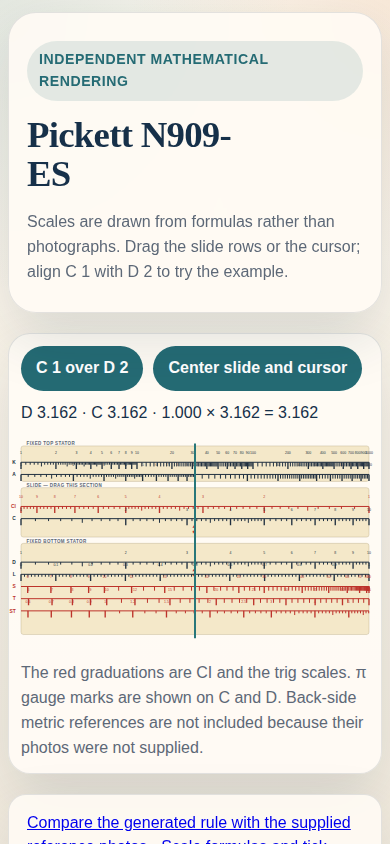
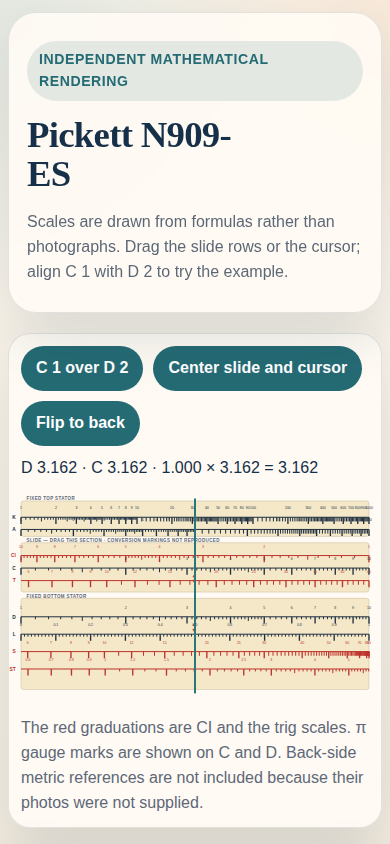
Correct slide scale placement and drag hit area

Changed region(s): [[0.0, 0.4621, 0.9846, 1.0], [0.4, 0.4621, 0.8308, 0.4929]]

diff --git a/rule-v2.html b/rule-v2.html
@@ -39,6 +39,7 @@
       <div class="toolbar">
         <button type="button" id="example">C 1 over D 2</button>
         <button type="button" id="center">Center slide and cursor</button>
+        <button type="button" id="flip">Flip to back</button>
         <output id="reading" aria-live="polite"></output>
       </div>
       <svg class="rule-svg" id="rule" viewBox="0 0 1000 590" role="img" aria-label="Front-side slide rule with logarithmic and trigonometric scales">
@@ -46,13 +47,17 @@
         <rect class="rail" x="0" y="137" width="1000" height="142" rx="7"/>
         <rect class="rail" x="0" y="297" width="1000" height="262" rx="7"/>
         <text class="section-name" x="16" y="15">FIXED TOP STATOR</text>
-        <text class="section-name" x="16" y="135">SLIDE — DRAG THIS SECTION</text>
+        <text class="section-name" x="16" y="135">SLIDE — DRAG THIS SECTION · CONVERSION MARKINGS NOT REPRODUCED</text>
         <text class="section-name" x="16" y="295">FIXED BOTTOM STATOR</text>
         <g id="fixed-top"></g>
         <g id="slide-layer"></g>
         <g id="fixed-bottom"></g>
         <line id="cursor-line" class="cursor-line" x1="500" y1="10" x2="500" y2="570"/>
         <rect id="cursor-hit" class="cursor-hit" x="490" y="8" width="20" height="564"/>
+        <g id="back-message" visibility="hidden">
+          <text x="500" y="275" text-anchor="middle" class="scale-name">Back-side reference photos are not available.</text>
+          <text x="500" y="305" text-anchor="middle" class="section-name">No back scales or conversion markings are guessed.</text>
+        </g>
       </svg>
       <p class="instructions">The red graduations are CI and the trig scales. π gauge marks are shown on C and D. Back-side metric references are not included because their photos were not supplied.</p>
     </section>
@@ -66,12 +71,17 @@
       const slide = document.getElementById('slide-layer');
       const cursorLine = document.getElementById('cursor-line');
       const cursorHit = document.getElementById('cursor-hit');
+      const backMessage = document.getElementById('back-message');
       const output = document.getElementById('reading');
-      const rows = { top: [64, 99], slide: [191, 226], bottom: [351, 386, 421, 456, 491] };
+      const rows = { top: [64, 99], slide: [174, 210, 246], bottom: [350, 400, 450, 500] };
+      let isBack = false;
       for (const section of ['top', 'slide', 'bottom']) {
         const group = section === 'slide' ? slide : document.getElementById(`fixed-${section}`);
         const scales = PickettScales.definitions.filter((scale) => scale.section === section);
-        group.innerHTML = scales.map((scale, index) => PickettScales.renderScale(scale, rows[section][index], width)).join('');
+        const slideHitArea = section === 'slide'
+          ? '<rect x="-1000" y="137" width="3000" height="142" fill="transparent" pointer-events="all"/>'
+          : '';
+        group.innerHTML = slideHitArea + scales.map((scale, index) => PickettScales.renderScale(scale, rows[section][index], width)).join('');
       }
 
       let offset = 0;
@@ -83,6 +93,10 @@
         cursorLine.setAttribute('x1', cursor);
         cursorLine.setAttribute('x2', cursor);
         cursorHit.setAttribute('x', cursor - 10);
+        if (isBack) {
+          output.textContent = 'Back-side markings are unavailable in the supplied references.';
+          return;
+        }
         const d = PickettScales.readScaleAt('D', cursor / width);
         const c = PickettScales.readScaleAt('C', cursor / width, offset / width);
         const base = PickettScales.readScaleAt('D', offset / width);
@@ -114,6 +128,17 @@
       document.getElementById('example').addEventListener('click', () => {
         offset = (PickettScales.positionOf(scale('D'), 2) - PickettScales.positionOf(scale('C'), 1)) * width;
         cursor = PickettScales.positionOf(scale('D'), 6) * width;
+        update();
+      });
+      document.getElementById('flip').addEventListener('click', (event) => {
+        const back = event.currentTarget.dataset.side !== 'back';
+        isBack = back;
+        event.currentTarget.dataset.side = back ? 'back' : 'front';
+        event.currentTarget.textContent = back ? 'Flip to front' : 'Flip to back';
+        for (const id of ['fixed-top', 'slide-layer', 'fixed-bottom', 'cursor-line', 'cursor-hit']) {
+          document.getElementById(id).setAttribute('visibility', back ? 'hidden' : 'visible');
+        }
+        backMessage.setAttribute('visibility', back ? 'visible' : 'hidden');
         update();
       });
       update();

diff --git a/scales.js b/scales.js
@@ -55,7 +55,7 @@
       labels: [6, 7, 8, 9, 10, 12, 15, 20, 25, 30, 40, 50, 60, 70, 80, 90]
     },
     {
-      id: 'T', name: 'T', section: 'bottom', formula: '1 + log10(tan(theta))',
+      id: 'T', name: 'T', section: 'slide', formula: '1 + log10(tan(theta))',
       min: 5.7105931375, max: 45,
       from: (theta) => 1 + Math.log10(Math.tan(radians(theta))),
       to: (x) => Math.atan(10 ** (x - 1)) * 180 / Math.PI,

diff --git a/scales.md b/scales.md
@@ -12,20 +12,23 @@ in the `labels` column.
 | Fixed top stator, 2 | A | `log10(v) / 2` | 1–100 | black | For each decade `10^n`: mantissa 1–2 by 0.1, 2–5 by 0.1, 5–10 by 0.2 |
 | Slide, 1 | CI | `1 - log10(v)` | 1–10, read right to left | red | 1–2 by 0.1, 2–5 by 0.1, 5–10 by 0.2 |
 | Slide, 2 | C | `log10(v)` | 1–10 | black | 1–2 by 0.1, 2–5 by 0.1, 5–10 by 0.2; gauge mark at π |
+| Slide, 3 | T | `1 + log10(tan(theta))` | 5.7105931375°–45° | red | 6°–45° by 1° |
 | Fixed bottom stator, 1 | D | `log10(v)` | 1–10 | black | 1–2 by 0.1, 2–5 by 0.1, 5–10 by 0.2; gauge mark at π |
 | Fixed bottom stator, 2 | L | `v` | 0–1 | black | 0–1 by 0.01 |
 | Fixed bottom stator, 3 | S | `1 + log10(sin(theta))` | 5.7391704773°–90° | red | 6°–90° by 1° |
-| Fixed bottom stator, 4 | T | `1 + log10(tan(theta))` | 5.7105931375°–45° | red | 6°–45° by 1° |
-| Fixed bottom stator, 5 | ST | `2 + log10(tan(theta))` | 0.5729386977°–5.7105931375° | red | 0.6°–5.7° by 0.1° |
+| Fixed bottom stator, 4 | ST | `2 + log10(tan(theta))` | 0.5729386977°–5.7105931375° | red | 0.6°–5.7° by 0.1° |
 
-The logarithmic subdivisions repeat by decade for A and K. The displayed front
-references identify K and A on the upper fixed bar and the existing lesson
-identifies L on the lower fixed bar; the C/D, inverse, and trig scales complete
-the generated front-side model.
+The logarithmic subdivisions repeat by decade for A and K. The supplied photos
+identify K/A on the top stator, D/L on the bottom stator, and T/CI plus a
+`CONVERSION` marking on the slide. C, S, and ST are included using the
+standard scale formulas, but their precise printed placement and conversion
+labels cannot be read from the supplied low-resolution photos; those details
+are not claimed as verified.
 
 The archived virtual-page source names back-side stator and slider images and
 has a flip control, but those images are not present in `extracted_assets/`.
 Consequently their labels, ranges, and metric-conversion markings cannot be
 identified from the allowed references and are deliberately not guessed or
-rendered. A back-side page can be added when those reference photos are
-available.
+rendered. The slide's visible `CONVERSION` marking is noted but its unit
+graduations are also not legible enough to reproduce. A back-side page can be
+added when those reference photos are available.
